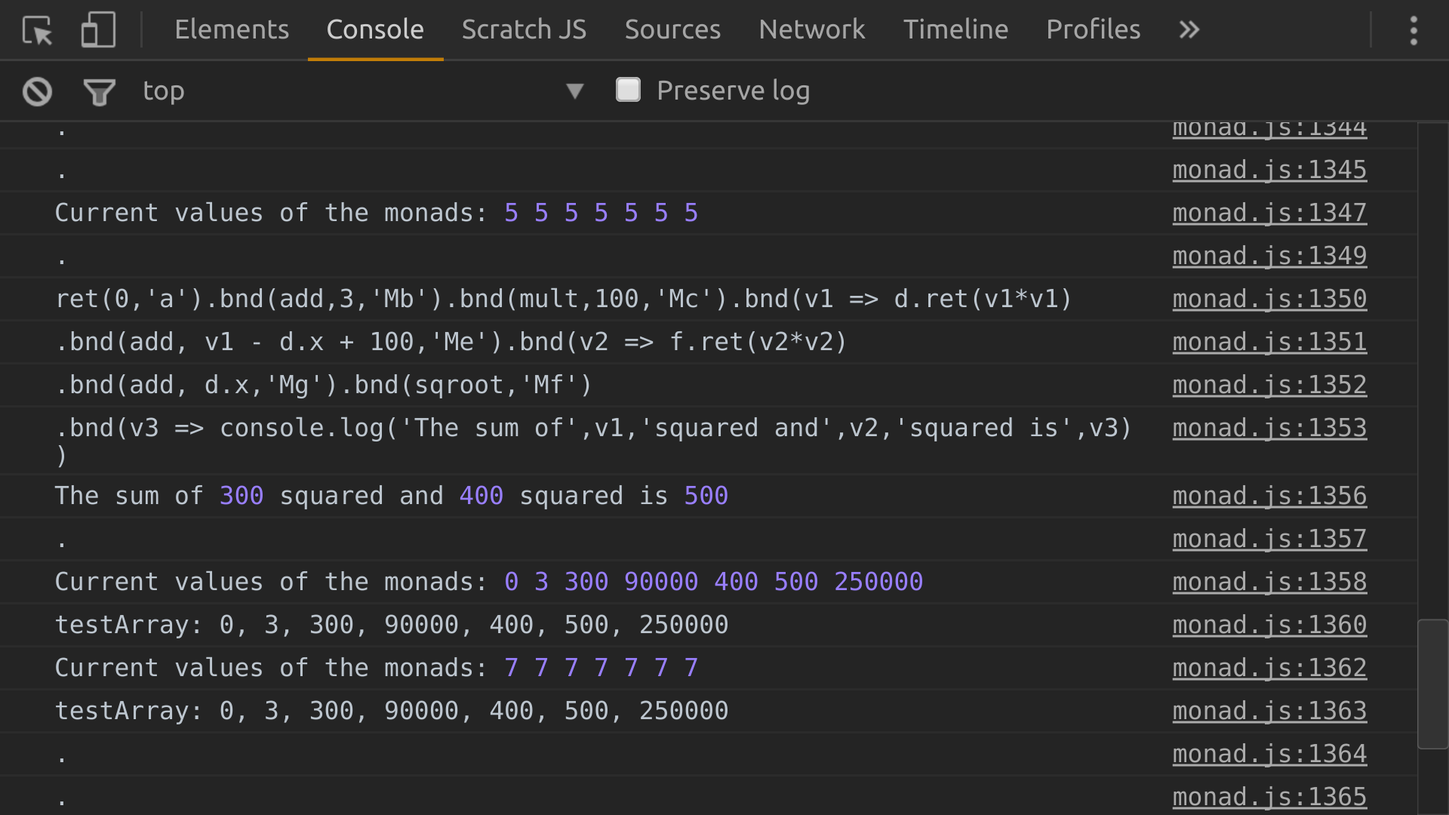
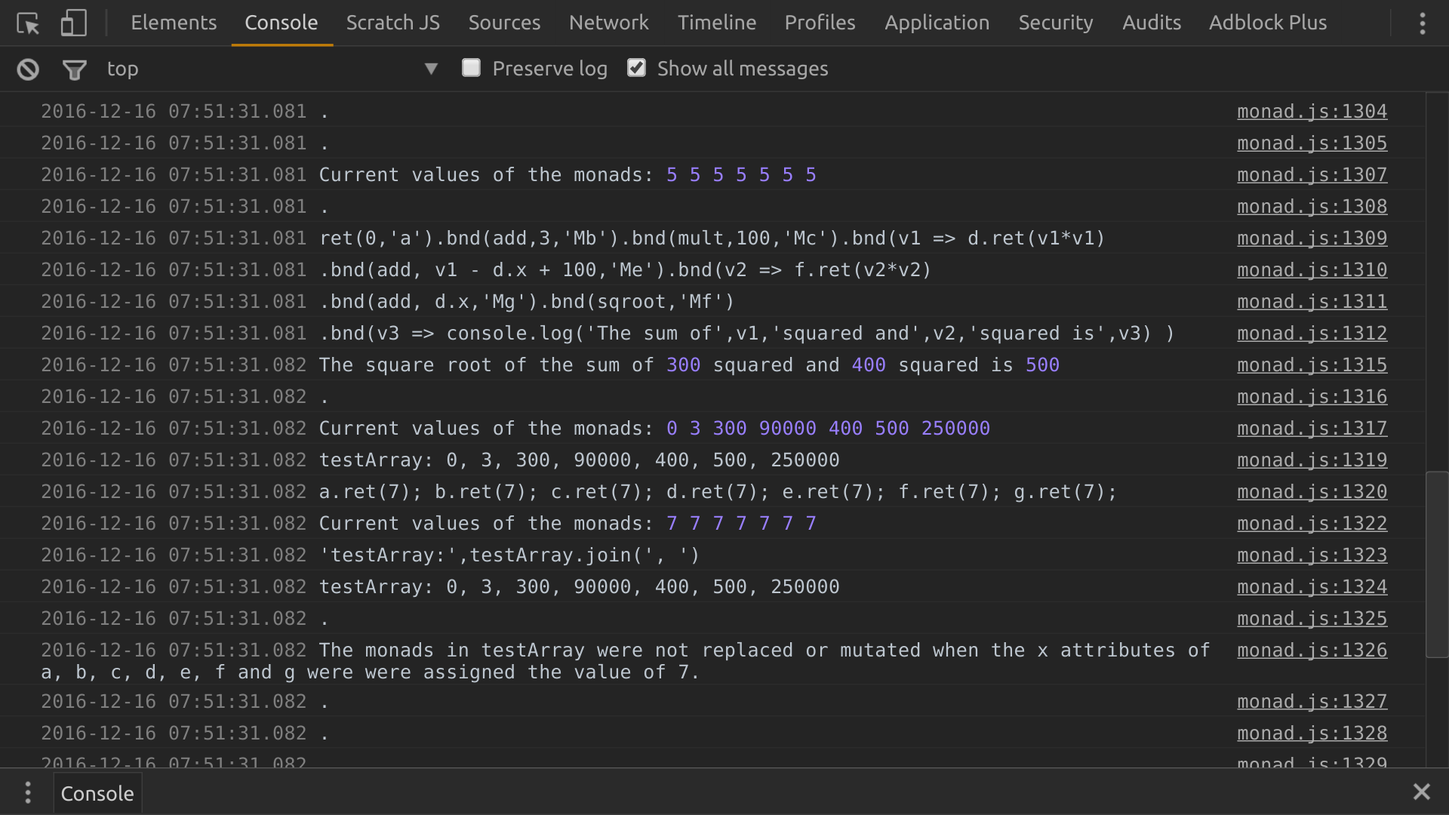
Edited some commentary

diff --git a/src/dist/bundle.js b/src/dist/bundle.js
@@ -6899,7 +6899,7 @@
 
 	    return {
 	        DOM: calcStream$.map(function () {
-	            return (0, _dom.h)('div.content', [(0, _dom.h)('div#rightPanel', { style: { display: '' + mMrightPanel.x } }, [(0, _dom.h)('span#tog', [(0, _dom.h)('button#game', { style: { fontSize: '16px', display: 'inline' } }, 'TOGGLE GAME'), (0, _dom.h)('span.tao', ' '), (0, _dom.h)('button#todoButton', { style: { fontSize: '16px', display: 'inline' } }, 'TOGGLE TODO_LIST'), (0, _dom.h)('br'), (0, _dom.h)('br'), (0, _dom.h)('button#chat2', { style: { fontSize: '16px', display: 'inline' } }, 'TOGGLE CHAT'), (0, _dom.h)('span.tao', ' '), (0, _dom.h)('button#caption', { style: { fontSize: '16px', display: 'inline' } }, 'TOGGLE CAPTION')]), (0, _dom.h)('br'), (0, _dom.h)('br'), (0, _dom.h)('br'), (0, _dom.h)('br'), (0, _dom.h)('br'), (0, _dom.h)('br'), (0, _dom.h)('br'), (0, _dom.h)('br'), (0, _dom.h)('br'), (0, _dom.h)('br'), (0, _dom.h)('br'), (0, _dom.h)('br'), (0, _dom.h)('br'), (0, _dom.h)('div#gameDiv', { style: { display: 'mMgameDiv.x' } }, [(0, _dom.h)('div.game', 'Name: ' + pMname.x), (0, _dom.h)('div.game', 'Group: ' + pMgroup.x), (0, _dom.h)('div.game', 'Currently online: Name score | goals'), (0, _dom.h)('div.game', '' + pMdata.x)]), (0, _dom.h)('br'), (0, _dom.h)('br'), (0, _dom.h)('div#todoDiv', { style: { display: mMtodoDiv.x } }, [(0, _dom.h)('div#taskList', taskL), (0, _dom.h)('span', 'Author, Responsible Person, Task: '), (0, _dom.h)('input.newTask')]), (0, _dom.h)('br'), (0, _dom.h)('span#alert', mMalert.x), (0, _dom.h)('br'), (0, _dom.h)('span#alert2'), (0, _dom.h)('br'), (0, _dom.h)('div#chatDiv', { style: { display: mMchatDiv.x } }, [(0, _dom.h)('div#messages', [(0, _dom.h)('span', 'Message: '), (0, _dom.h)('input.inputMessage'), (0, _dom.h)('div', messageMonad.s[3])])]), (0, _dom.h)('br'), (0, _dom.h)('br'), (0, _dom.h)('div', 'pMclicked.x: ' + pMclicked.x.join(', ')), (0, _dom.h)('div', 'pMop.x: ' + pMop.x), (0, _dom.h)('div', 'pMindex.x: ' + pMindex.x), (0, _dom.h)('div', 'travMonad.s.length: ' + travMonad.s.length), (0, _dom.h)('div', 'travMonad.s[pMindex.x][0]: ' + travMonad.s[pMindex.x][0]), (0, _dom.h)('div', 'travMonad.s[pMindex.x][1]: ' + travMonad.s[pMindex.x][1]), (0, _dom.h)('div', 'travMonad.s[pMindex.x][2]: ' + travMonad.s[pMindex.x][2]), (0, _dom.h)('div', 'travMonad.s[pMindex.x][3]: ' + travMonad.s[pMindex.x][3]), (0, _dom.h)('div', 'travMonad.s[pMindex.x][4]: ' + travMonad.s[pMindex.x][4])]), (0, _dom.h)('div#leftPanel', [(0, _dom.h)('br'), (0, _dom.h)('div#captionDiv', { style: { display: mMcaptionDiv.x } }, [(0, _dom.h)('h1', 'Motorcycle.js With JS-monads')]), (0, _dom.h)('span#italic', ' Not category theory monads. These monads are like the Haskell monads, They use patterns and conform to rules borrowed from category theory. See '), (0, _dom.h)('a', { props: { href: "http://math.andrej.com/2016/08/06/hask-is-not-a-category/", target: "_blank" } }, 'Hask is not a category.'), (0, _dom.h)('span', ' by Andrej Bauer and . '), (0, _dom.h)('a', { props: { href: '#discussion' } }, 'Discussion'), (0, _dom.h)('span', ' below. '), (0, _dom.h)('br'), (0, _dom.h)('br'), (0, _dom.h)('br'), (0, _dom.h)('span.tao1', ' The demonstrations include persisternt, shared todo lists; '), (0, _dom.h)('br'), (0, _dom.h)('span.tao1', ' An interactive simulated dice game with a traversable history (all group members see your score decrease or increase as you navegate backwards and forwards); '), (0, _dom.h)('br'), (0, _dom.h)('span.tao1', ' Chat rooms where members can compete in the simulated dice game, chat, and share a project todo list; '), (0, _dom.h)('br'), (0, _dom.h)('span.tao1', ' And other demonstrations of the power and convenience of JS-monads in a Motorcycle application.  '), (0, _dom.h)('br'), (0, _dom.h)('br'), (0, _dom.h)('span.tao', 'This is a '), (0, _dom.h)('a', { props: { href: "https://github.com/motorcyclejs", target: "_blank" } }, 'Motorcycle.js'), (0, _dom.h)('span', ' application. Motorcycle.js is '), (0, _dom.h)('a', { props: { href: "https://github.com/cyclejs/core", target: "_blank" } }, 'Cycle.js'), (0, _dom.h)('span', ' using '), (0, _dom.h)('a', { props: { href: "https://github.com/cujojs/most", target: "_blank" } }, 'Most'), (0, _dom.h)('span', ' , '), (0, _dom.h)('span', ' and '), (0, _dom.h)('a', { props: { href: "https://github.com/paldepind/snabbdom", target: "_blank" } }, 'Snabbdom'), (0, _dom.h)('span', ' instead of RxJS and virtual-dom.  The code for this repository is at '), (0, _dom.h)('a', { props: { href: "https://github.com/dschalk/JS-monads-stable", target: "_blank" } }, 'JS-monads-stable'), (0, _dom.h)('div#gameDiv2', { style: { display: mMgameDiv2.x } }, [(0, _dom.h)('br'), (0, _dom.h)('span', ' Here are the basic rules:'), (0, _dom.h)('p', 'RULES: If clicking two numbers and an operator (in any order) results in 20 or 18, the score increases by 1 or 3, respectively. If the score becomes 0 or is evenly divisible by 5, 5 points are added. A score of 25 results in one goal. That can only be achieved by arriving at a score of 20, which jumps the score to 25. Directly computing 25 results in a score of 30, and no goal. Each time RL is clicked, one point is deducted. Three goals wins the game. '), (0, _dom.h)('p.red4', mMgoals2.x), (0, _dom.h)('button#0.num', { style: { display: pMstyle.x[0] } }, pMnums.x[0]), (0, _dom.h)('button#1.num', { style: { display: pMstyle.x[1] } }, pMnums.x[1]), (0, _dom.h)('button#2.num', { style: { display: pMstyle.x[2] } }, pMnums.x[2]), (0, _dom.h)('button#3.num', { style: { display: pMstyle.x[3] } }, pMnums.x[3]), (0, _dom.h)('br'), (0, _dom.h)('button#4.op', 'add'), (0, _dom.h)('button#5.op', 'subtract'), (0, _dom.h)('button#5.op', 'mult'), (0, _dom.h)('button#5.op', 'div'), (0, _dom.h)('button#5.op', 'concat'), (0, _dom.h)('br'), (0, _dom.h)('div#dice', { style: { display: mMdice.x } }, [(0, _dom.h)('button.roll', 'ROLL'), (0, _dom.h)('br'), (0, _dom.h)('button#back', 'BACK'), (0, _dom.h)('button#forward', 'FORWARD'), (0, _dom.h)('div.tao', 'Selected numbers: ' + pMclicked.x.join(', ') + ' '), (0, _dom.h)('div.tao', 'Operator: ' + pMop.x + ' '), (0, _dom.h)('button#clear', 'Clear selected numbers (Possibly useful after clicking the BACK button) ')])]), (0, _dom.h)('div#log1', { style: { display: mMlog1.x } }, [(0, _dom.h)('p', 'IN ORDER TO SEE THE GAME, TODOLIST, AND CHAT DEMONSTRATIONS, YOU MUST ENTER SOMETHING .'), (0, _dom.h)('span', 'Name: '), (0, _dom.h)('input#login')]), (0, _dom.h)('p', mM6.x), (0, _dom.h)('div#log2', { style: { display: mMlog2.x } }, [(0, _dom.h)('span', 'Change group: '), (0, _dom.h)('input#group')]), (0, _dom.h)('p', mMsoloAlert.x), (0, _dom.h)('p', 'People who are in the same group, other than solo, share the same todo list, messages, and simulated dice game. In order to see any of these, you must establish an identity on the server by loggin g in. The websockets connection terminates if the first message the server receives does not come from the sign in form. You can enter any random numbers or letters you like. The only check is to make sure someone hasn\t already signed in with whatever you have selected. If you log in with a name that is already in use, a message will appear and this page will be re-loaded in the browser after a four-second pause. '), (0, _dom.h)('p', ' Data for the traversable game history accumulates until a player scores three goals and wins. The data array is then erased and the application is ready to start accumulating a new history. '), (0, _dom.h)('hr'), (0, _dom.h)('h1', 'The Monads'), (0, _dom.h)('h3', ' Monad '), _code2.default.monad, (0, _dom.h)('br'), (0, _dom.h)('span.tao#monad', ' Instances of Monad, MonadState, MonadItter, and MonadEr facilitate programming in a functional style. Additional constructors can be invented as special needs arise. In this presentation we see, among other things, Monad instances linking computations and assigning results to Monad instances, '), (0, _dom.h)('a', { props: { href: '#state' } }, 'MonadState'), (0, _dom.h)('span', ' instances memoizing computation results, '), (0, _dom.h)('a', { props: { href: '#itterLink' } }, 'MonadItter'), (0, _dom.h)('span', ' instances organizing nested callbacks into neat, easily maintainable blocks of code, and '), (0, _dom.h)('a', { props: { href: '#err' } }, 'MonadEr'), (0, _dom.h)('span', ' catching NaN and preventing crashes when undefined variables are encountered. '), (0, _dom.h)('p', ' Computations are easy to link if each result is returned in an instance of Monad. Here are a few examples of functions that return instances of Monad: '), _code2.default.e1, (0, _dom.h)('p', ' The "M" prefix provides constrol over the destination of computation results. In the following example, m1, m2, and m3 have already been declared. Here is a comparrison of the results obtained when the "M" prefix is used and when it is omitted: '), (0, _dom.h)('pre.red9', '    m1.ret(7).bnd(m2.ret).bnd(m3.ret)  // All three monads get the value 7.\n    m1.ret(0).bnd(add,3,\'m2\').bnd(cube,\'m3\')  // \'m1\', \'m2\', and \'m3\' are ignored'), (0, _dom.h)('pre', '    Result: m1.x === 27\n            m2.x === 7\n            m3.x === 7  '), (0, _dom.h)('pre.red9', '    m1.ret(0).bnd(add,3,\'Mm2\').bnd(cube,\'Mm3\')   '), (0, _dom.h)('pre', '    Result: m1.x === 0\n            m2.x === 3\n            m3.x === 27  '), (0, _dom.h)('p', ' If the prefix "M" is absent, bnd() ignores the string argument. But when the "M" prefix is present, m1 retains its initial value, m2 retains the value it gets from from adding m\'s value (which is 0) to 3, and m3.x is the result. Both forms could be useful. '), (0, _dom.h)('p', ' The following example shows lambda expressions sending variables v1 and v2 through a sequence of computations and v3 sending the final result to the string that is logged. It also shows monads a, b, c, d, e, f, and g being updated and preserved in an array that is not affected by further updates. That is because calling the ret() method does not mutate a monad, it creates a fresh instance with the same name. Here is the example, shown in a screen shot of the Chrome console log:. '), (0, _dom.h)('br'), (0, _dom.h)('br'), (0, _dom.h)('img.image', { props: { src: "demo_000.png" } }), (0, _dom.h)('h3', ' The Monad Laws '), (0, _dom.h)('p', ' In the following discussion, "x === y" signifies that the expression x === y returns true. Let J be the collection of all Javascript values, including functions, instances of Monad, etc, and let F be the collection of all functions mapping values in J to instances of Monad with references (names) matching their ids; that is, with window[id] === m.id for some id which is a valid es2015 variable name. The collection of all such instances of Monad along and all of the functions in F is called "M". For any instances of Monad m, m1, and m2 in M and any functions f and g in F, the following relationships follow easily from the definition of Monad: '), (0, _dom.h)('div', 'Left Identity '), (0, _dom.h)('pre.turk', '    m.ret(v, ...args).bnd(f, ...args).x === f(v, ...args).x \n    ret(v, ...args).bnd(f, ...args).x === f(v, ...args).x \n    Examples: m.ret(3).bnd(cube).x === cube(3).x  Tested and verified  \n    ret(3).bnd(cube).x === cube(3).x     Tested and verified\n    Haskell monad law: (return x) >>= f \u2261 f x  '), (0, _dom.h)('div#discussion', ' Right Identity  '), (0, _dom.h)('pre.turk', '    m.bnd(m.ret) === m      Tested and verified \n    m.bnd(m.ret) === m   Tested and verified\n    m.bnd(ret) === m  Tested and verified\n    Haskell monad law: m >>= return \u2261 m '), (0, _dom.h)('div', ' Commutivity  '), (0, _dom.h)('pre.turk', '    m.bnd(f1, ...args).bnd(f2, ...args).x === m.bnd(v => f1(v, ...args).bnd(f2, ...args)).x \n    Example: m.ret(0).bnd(add, 3).bnd(cube).x === \n    m.ret(0).bnd(v => add(v,3).bnd(cube)).x  Tested amd verified\n    Haskell monad law: (m >>= f) >>= g \u2261 m >>= ( \\x -> (f x >>= g) ) '), (0, _dom.h)('a', { props: { href: '#top' } }, 'Back To The Top'), (0, _dom.h)('h3', ' Disussion '), (0, _dom.h)('span.tao', ' The Haskell statement '), (0, _dom.h)('span.turk6', 'f \u2261 g'), (0, _dom.h)('span', ' means that f x == g x for all Haskell values x of the appropriate type. That is the test applied to Javascript expressions in "Monad Laws" section (above). Neither the === nor the === operator would provide useful information about the behavior of instances of Monad, which are objects. Those operators test objects for location in memory. If the left and right sides of predicates create new instances of m, then the left side m and the right side m wind up in different locations in memory. So we expect m.ret(3) === m.ret(3) to return false, and it does. The question we want answered is the question \u2261 answers in Haskell: Can the left and right sides be substituted for one another and still yield the same results.'), (0, _dom.h)('br'), (0, _dom.h)('br'), (0, _dom.h)('span.tao', ' The Haskell programming language borrowed the term "monad" from the branch of mathematics known as category theory. This was apropriate because Haskell monads, along with the function return and the operator >>=, behave quite a bit like category theory monads, and the inspiration for them came out of category theory. For Haskell monads to be category theory monads, they would need to reside in a category-theory category. They don\'t, although the Haskell mystique tends to give newcommers to the language the impression that they do. See '), (0, _dom.h)('a', { props: { href: "http://math.andrej.com/2016/08/06/hask-is-not-a-category/", target: "_blank" } }, 'Hask is not a category.'), (0, _dom.h)('br'), (0, _dom.h)('p', ' Research into ways of defining a Haskell category appears to be ongoing. It involves tinkering with special constraints, omitted features, and definitions of morphisms that are not Haskell functions. When a definition of the category is established, Haskell monads are then be shown to be, in some contrived context, category-theory monads. Devising such schemes are instructive academic excercises, but I don\'t think they can provide anything useful to programmers working on applications for industry, commerce, and the Internet. '), (0, _dom.h)('p', ' However, imitating definitions and patterns found in category theory, as Haskell does in defining the functor, monoid, and monad type classes, was a stroke of genius that vastly enriched the Haskell programming language and brought it into the mainstream as a viable alternative to java, c++, etc.  This website runs efficiently on a Haskell websockets server. Category theory patterns are less needed, but neverthless useful, in Javascript. Code that adheres to them tends to be robust and predictable. '),
+	            return (0, _dom.h)('div.content', [(0, _dom.h)('div#rightPanel', { style: { display: '' + mMrightPanel.x } }, [(0, _dom.h)('span#tog', [(0, _dom.h)('button#game', { style: { fontSize: '16px', display: 'inline' } }, 'TOGGLE GAME'), (0, _dom.h)('span.tao', ' '), (0, _dom.h)('button#todoButton', { style: { fontSize: '16px', display: 'inline' } }, 'TOGGLE TODO_LIST'), (0, _dom.h)('br'), (0, _dom.h)('br'), (0, _dom.h)('button#chat2', { style: { fontSize: '16px', display: 'inline' } }, 'TOGGLE CHAT'), (0, _dom.h)('span.tao', ' '), (0, _dom.h)('button#caption', { style: { fontSize: '16px', display: 'inline' } }, 'TOGGLE CAPTION')]), (0, _dom.h)('br'), (0, _dom.h)('br'), (0, _dom.h)('br'), (0, _dom.h)('br'), (0, _dom.h)('br'), (0, _dom.h)('br'), (0, _dom.h)('br'), (0, _dom.h)('br'), (0, _dom.h)('br'), (0, _dom.h)('br'), (0, _dom.h)('br'), (0, _dom.h)('br'), (0, _dom.h)('br'), (0, _dom.h)('div#gameDiv', { style: { display: 'mMgameDiv.x' } }, [(0, _dom.h)('div.game', 'Name: ' + pMname.x), (0, _dom.h)('div.game', 'Group: ' + pMgroup.x), (0, _dom.h)('div.game', 'Currently online: Name score | goals'), (0, _dom.h)('div.game', '' + pMdata.x)]), (0, _dom.h)('br'), (0, _dom.h)('br'), (0, _dom.h)('div#todoDiv', { style: { display: mMtodoDiv.x } }, [(0, _dom.h)('div#taskList', taskL), (0, _dom.h)('span', 'Author, Responsible Person, Task: '), (0, _dom.h)('input.newTask')]), (0, _dom.h)('br'), (0, _dom.h)('span#alert', mMalert.x), (0, _dom.h)('br'), (0, _dom.h)('span#alert2'), (0, _dom.h)('br'), (0, _dom.h)('div#chatDiv', { style: { display: mMchatDiv.x } }, [(0, _dom.h)('div#messages', [(0, _dom.h)('span', 'Message: '), (0, _dom.h)('input.inputMessage'), (0, _dom.h)('div', messageMonad.s[3])])]), (0, _dom.h)('br'), (0, _dom.h)('br'), (0, _dom.h)('div', 'pMclicked.x: ' + pMclicked.x.join(', ')), (0, _dom.h)('div', 'pMop.x: ' + pMop.x), (0, _dom.h)('div', 'pMindex.x: ' + pMindex.x), (0, _dom.h)('div', 'travMonad.s.length: ' + travMonad.s.length), (0, _dom.h)('div', 'travMonad.s[pMindex.x][0]: ' + travMonad.s[pMindex.x][0]), (0, _dom.h)('div', 'travMonad.s[pMindex.x][1]: ' + travMonad.s[pMindex.x][1]), (0, _dom.h)('div', 'travMonad.s[pMindex.x][2]: ' + travMonad.s[pMindex.x][2]), (0, _dom.h)('div', 'travMonad.s[pMindex.x][3]: ' + travMonad.s[pMindex.x][3]), (0, _dom.h)('div', 'travMonad.s[pMindex.x][4]: ' + travMonad.s[pMindex.x][4])]), (0, _dom.h)('div#leftPanel', [(0, _dom.h)('br'), (0, _dom.h)('div#captionDiv', { style: { display: mMcaptionDiv.x } }, [(0, _dom.h)('h1', 'Motorcycle.js With JS-monads')]), (0, _dom.h)('span#italic', ' Not category theory monads. These monads are like the Haskell monads, They use patterns and conform to rules borrowed from category theory. See '), (0, _dom.h)('a', { props: { href: "http://math.andrej.com/2016/08/06/hask-is-not-a-category/", target: "_blank" } }, 'Hask is not a category.'), (0, _dom.h)('span', ' by Andrej Bauer and . '), (0, _dom.h)('a', { props: { href: '#discussion' } }, 'Discussion'), (0, _dom.h)('span', ' below. '), (0, _dom.h)('br'), (0, _dom.h)('br'), (0, _dom.h)('br'), (0, _dom.h)('span.tao1', ' The demonstrations include persisternt, shared todo lists; '), (0, _dom.h)('br'), (0, _dom.h)('span.tao1', ' An interactive simulated dice game with a traversable history (all group members see your score decrease or increase as you navegate backwards and forwards); '), (0, _dom.h)('br'), (0, _dom.h)('span.tao1', ' Chat rooms where members can compete in the simulated dice game, chat, and share a project todo list; '), (0, _dom.h)('br'), (0, _dom.h)('span.tao1', ' And other demonstrations of the power and convenience of JS-monads in a Motorcycle application.  '), (0, _dom.h)('br'), (0, _dom.h)('br'), (0, _dom.h)('span.tao', 'This is a '), (0, _dom.h)('a', { props: { href: "https://github.com/motorcyclejs", target: "_blank" } }, 'Motorcycle.js'), (0, _dom.h)('span', ' application. Motorcycle.js is '), (0, _dom.h)('a', { props: { href: "https://github.com/cyclejs/core", target: "_blank" } }, 'Cycle.js'), (0, _dom.h)('span', ' using '), (0, _dom.h)('a', { props: { href: "https://github.com/cujojs/most", target: "_blank" } }, 'Most'), (0, _dom.h)('span', ' , '), (0, _dom.h)('span', ' and '), (0, _dom.h)('a', { props: { href: "https://github.com/paldepind/snabbdom", target: "_blank" } }, 'Snabbdom'), (0, _dom.h)('span', ' instead of RxJS and virtual-dom.  The code for this repository is at '), (0, _dom.h)('a', { props: { href: "https://github.com/dschalk/JS-monads-stable", target: "_blank" } }, 'JS-monads-stable'), (0, _dom.h)('div#gameDiv2', { style: { display: mMgameDiv2.x } }, [(0, _dom.h)('br'), (0, _dom.h)('span', ' Here are the basic rules:'), (0, _dom.h)('p', 'RULES: If clicking two numbers and an operator (in any order) results in 20 or 18, the score increases by 1 or 3, respectively. If the score becomes 0 or is evenly divisible by 5, 5 points are added. A score of 25 results in one goal. That can only be achieved by arriving at a score of 20, which jumps the score to 25. Directly computing 25 results in a score of 30, and no goal. Each time RL is clicked, one point is deducted. Three goals wins the game. '), (0, _dom.h)('p.red4', mMgoals2.x), (0, _dom.h)('button#0.num', { style: { display: pMstyle.x[0] } }, pMnums.x[0]), (0, _dom.h)('button#1.num', { style: { display: pMstyle.x[1] } }, pMnums.x[1]), (0, _dom.h)('button#2.num', { style: { display: pMstyle.x[2] } }, pMnums.x[2]), (0, _dom.h)('button#3.num', { style: { display: pMstyle.x[3] } }, pMnums.x[3]), (0, _dom.h)('br'), (0, _dom.h)('button#4.op', 'add'), (0, _dom.h)('button#5.op', 'subtract'), (0, _dom.h)('button#5.op', 'mult'), (0, _dom.h)('button#5.op', 'div'), (0, _dom.h)('button#5.op', 'concat'), (0, _dom.h)('br'), (0, _dom.h)('div#dice', { style: { display: mMdice.x } }, [(0, _dom.h)('button.roll', 'ROLL'), (0, _dom.h)('br'), (0, _dom.h)('button#back', 'BACK'), (0, _dom.h)('button#forward', 'FORWARD'), (0, _dom.h)('div.tao', 'Selected numbers: ' + pMclicked.x.join(', ') + ' '), (0, _dom.h)('div.tao', 'Operator: ' + pMop.x + ' '), (0, _dom.h)('button#clear', 'Clear selected numbers (Possibly useful after clicking the BACK button) ')])]), (0, _dom.h)('div#log1', { style: { display: mMlog1.x } }, [(0, _dom.h)('p', 'IN ORDER TO SEE THE GAME, TODOLIST, AND CHAT DEMONSTRATIONS, YOU MUST ENTER SOMETHING .'), (0, _dom.h)('span', 'Name: '), (0, _dom.h)('input#login')]), (0, _dom.h)('p', mM6.x), (0, _dom.h)('div#log2', { style: { display: mMlog2.x } }, [(0, _dom.h)('span', 'Change group: '), (0, _dom.h)('input#group')]), (0, _dom.h)('p', mMsoloAlert.x), (0, _dom.h)('p', 'People who are in the same group, other than solo, share the same todo list, messages, and simulated dice game. In order to see any of these, you must establish an identity on the server by loggin g in. The websockets connection terminates if the first message the server receives does not come from the sign in form. You can enter any random numbers or letters you like. The only check is to make sure someone hasn\t already signed in with whatever you have selected. If you log in with a name that is already in use, a message will appear and this page will be re-loaded in the browser after a four-second pause. '), (0, _dom.h)('p', ' Data for the traversable game history accumulates until a player scores three goals and wins. The data array is then erased and the application is ready to start accumulating a new history. '), (0, _dom.h)('hr'), (0, _dom.h)('h1', 'The Monads'), (0, _dom.h)('h3', ' Monad '), _code2.default.monad, (0, _dom.h)('br'), (0, _dom.h)('span.tao#monad', ' Instances of Monad, MonadState, MonadItter, and MonadEr facilitate programming in a functional style. Additional constructors can be invented as special needs arise. In this presentation we see, among other things, Monad instances linking computations and assigning results to Monad instances, '), (0, _dom.h)('a', { props: { href: '#state' } }, 'MonadState'), (0, _dom.h)('span', ' instances memoizing computation results, '), (0, _dom.h)('a', { props: { href: '#itterLink' } }, 'MonadItter'), (0, _dom.h)('span', ' instances organizing nested callbacks into neat, easily maintainable blocks of code, and '), (0, _dom.h)('a', { props: { href: '#err' } }, 'MonadEr'), (0, _dom.h)('span', ' catching NaN and preventing crashes when undefined variables are encountered. '), (0, _dom.h)('p', ' Computations are easy to link if each result is returned in an instance of Monad. Here are a few examples of functions that return instances of Monad: '), _code2.default.e1, (0, _dom.h)('p', ' The "M" prefix provides constrol over the destination of computation results. In the following example, m1, m2, and m3 have already been declared. Here is a comparrison of the results obtained when the "M" prefix is used and when it is omitted: '), (0, _dom.h)('pre.red9', '    m1.ret(7).bnd(m2.ret).bnd(m3.ret)  // All three monads get the value 7.\n    m1.ret(0).bnd(add,3,\'m2\').bnd(cube,\'m3\')  // \'m1\', \'m2\', and \'m3\' are ignored'), (0, _dom.h)('pre', '    Result: m1.x === 27\n            m2.x === 7\n            m3.x === 7  '), (0, _dom.h)('pre.red9', '    m1.ret(0).bnd(add,3,\'Mm2\').bnd(cube,\'Mm3\')   '), (0, _dom.h)('pre', '    Result: m1.x === 0\n            m2.x === 3\n            m3.x === 27  '), (0, _dom.h)('p', ' If the prefix "M" is absent, bnd() ignores the string argument. But when the "M" prefix is present, m1 retains its initial value, m2 retains the value it gets from from adding m\'s value (which is 0) to 3, and m3.x is the result. Both forms could be useful. '), (0, _dom.h)('p', ' The following example shows lambda expressions sending variables v1 and v2 through a sequence of computations and v3 sending the final result to the string that is logged. It also shows monads a, b, c, d, e, f, and g being updated and preserved in an array that is not affected by further updates. That is because calling the ret() method does not mutate a monad; it creates a fresh instance with the same name. Here is the example, shown in a screen shot of the Chrome console log:. '), (0, _dom.h)('br'), (0, _dom.h)('br'), (0, _dom.h)('img.image', { props: { src: "demo_000.png" } }), (0, _dom.h)('h3', ' The Monad Laws '), (0, _dom.h)('p', ' In the following discussion, "x === y" signifies that the expression x === y returns true. Let J be the collection of all Javascript values, including functions, instances of Monad, etc, and let F be the collection of all functions mapping values in J to instances of Monad with references (names) matching their ids; that is, with window[id] === m.id for some id which is a valid es2015 variable name. The collection of all such instances of Monad along and all of the functions in F is called "M". For any instances of Monad m, m1, and m2 in M and any functions f and g in F, the following relationships follow easily from the definition of Monad: '), (0, _dom.h)('div', 'Left Identity '), (0, _dom.h)('pre.turk', '    m.ret(v, ...args).bnd(f, ...args).x === f(v, ...args).x \n    ret(v, ...args).bnd(f, ...args).x === f(v, ...args).x \n    Examples: m.ret(3).bnd(cube).x === cube(3).x  Tested and verified  \n    ret(3).bnd(cube).x === cube(3).x     Tested and verified\n    Haskell monad law: (return x) >>= f \u2261 f x  '), (0, _dom.h)('div#discussion', ' Right Identity  '), (0, _dom.h)('pre.turk', '    m.bnd(m.ret) === m      Tested and verified \n    m.bnd(m.ret) === m   Tested and verified\n    m.bnd(ret) === m  Tested and verified\n    Haskell monad law: m >>= return \u2261 m '), (0, _dom.h)('div', ' Commutivity  '), (0, _dom.h)('pre.turk', '    m.bnd(f1, ...args).bnd(f2, ...args).x === m.bnd(v => f1(v, ...args).bnd(f2, ...args)).x \n    Example: m.ret(0).bnd(add, 3).bnd(cube).x === \n    m.ret(0).bnd(v => add(v,3).bnd(cube)).x  Tested amd verified\n    Haskell monad law: (m >>= f) >>= g \u2261 m >>= ( \\x -> (f x >>= g) ) '), (0, _dom.h)('a', { props: { href: '#top' } }, 'Back To The Top'), (0, _dom.h)('h3', ' Disussion '), (0, _dom.h)('span.tao', ' The Haskell statement '), (0, _dom.h)('span.turk6', 'f \u2261 g'), (0, _dom.h)('span', ' means that f x == g x for all Haskell values x of the appropriate type. That is the test applied to Javascript expressions in "Monad Laws" section (above). Neither the === nor the === operator would provide useful information about the behavior of instances of Monad, which are objects. Those operators test objects for location in memory. If the left and right sides of predicates create new instances of m, then the left side m and the right side m wind up in different locations in memory. So we expect m.ret(3) === m.ret(3) to return false, and it does. The question we want answered is the question \u2261 answers in Haskell: Can the left and right sides be substituted for one another and still yield the same results.'), (0, _dom.h)('br'), (0, _dom.h)('br'), (0, _dom.h)('span.tao', ' The Haskell programming language borrowed the term "monad" from the branch of mathematics known as category theory. This was apropriate because Haskell monads, along with the function return and the operator >>=, behave quite a bit like category theory monads, and the inspiration for them came out of category theory. For Haskell monads to be category theory monads, they would need to reside in a category-theory category. They don\'t, although the Haskell mystique tends to give newcommers to the language the impression that they do. See '), (0, _dom.h)('a', { props: { href: "http://math.andrej.com/2016/08/06/hask-is-not-a-category/", target: "_blank" } }, 'Hask is not a category.'), (0, _dom.h)('br'), (0, _dom.h)('p', ' Research into ways of defining a Haskell category appears to be ongoing. It involves tinkering with special constraints, omitted features, and definitions of morphisms that are not Haskell functions. When a definition of the category is established, Haskell monads are then be shown to be, in some contrived context, category-theory monads. Devising such schemes are instructive academic excercises, but I don\'t think they can provide anything useful to programmers working on applications for industry, commerce, and the Internet. '), (0, _dom.h)('p', ' However, imitating definitions and patterns found in category theory, as Haskell does in defining the functor, monoid, and monad type classes, was a stroke of genius that vastly enriched the Haskell programming language and brought it into the mainstream as a viable alternative to java, c++, etc.  This website runs efficiently on a Haskell websockets server. Category theory patterns are less needed, but neverthless useful, in Javascript. Code that adheres to them tends to be robust and predictable. '),
 
 	            // **************************************************************************** END MONAD       START ERROR   
 	            //

diff --git a/src/main.js b/src/main.js
@@ -963,7 +963,7 @@ h('pre', `    Result: m1.x === 0
             m2.x === 3
             m3.x === 27  ` ),
 h('p', ' If the prefix "M" is absent, bnd() ignores the string argument. But when the "M" prefix is present, m1 retains its initial value, m2 retains the value it gets from from adding m\'s value (which is 0) to 3, and m3.x is the result. Both forms could be useful. ' ),
-h('p', ' The following example shows lambda expressions sending variables v1 and v2 through a sequence of computations and v3 sending the final result to the string that is logged. It also shows monads a, b, c, d, e, f, and g being updated and preserved in an array that is not affected by further updates. That is because calling the ret() method does not mutate a monad, it creates a fresh instance with the same name. Here is the example, shown in a screen shot of the Chrome console log:. ' ),  
+h('p', ' The following example shows lambda expressions sending variables v1 and v2 through a sequence of computations and v3 sending the final result to the string that is logged. It also shows monads a, b, c, d, e, f, and g being updated and preserved in an array that is not affected by further updates. That is because calling the ret() method does not mutate a monad; it creates a fresh instance with the same name. Here is the example, shown in a screen shot of the Chrome console log:. ' ),  
 h('br' ),
 h('br' ),
 h('img.image', {props: {src: "demo_000.png"}}  ),   

diff --git a/src/dist/monad.js b/src/dist/monad.js
@@ -1312,7 +1312,7 @@ console.log(".bnd(add, d.x,'Mg').bnd(sqroot,'Mf')");
 console.log(".bnd(v3 => console.log('The sum of',v1,'squared and',v2,'squared is',v3) )" );
 ret(0,'a').bnd(add,3,'Mb').bnd(mult,100,'Mc').bnd(v1 => d.ret(v1*v1)
 .bnd(add, v1 - d.x + 100,'Me').bnd(v2 => f.ret(v2*v2).bnd(add, d.x,'Mg').bnd(sqroot,'Mf')
-.bnd(v3 => console.log('The sum of',v1,'squared and',v2,'squared is',v3))));
+.bnd(v3 => console.log('The square root of the sum of',v1,'squared and',v2,'squared is',v3))));
 console.log('.');
 console.log('Current values of the monads:', a.x,b.x,c.x,d.x,e.x,f.x,g.x);
 var testArray = [a.x,b.x,c.x,d.x,e.x,f.x,g.x];
@@ -1323,7 +1323,10 @@ console.log('Current values of the monads:',a.x,b.x,c.x,d.x,e.x,f.x,g.x);
 console.log("'testArray:',testArray.join(', ')");
 console.log('testArray:',testArray.join(', '));
 console.log('.');
-console.log('The monads in testArray were not replaced or mutated.');
+console.log('The monads in testArray were not replaced or mutated when the x attributes of a, b, c, d, e, f and g were were assigned the value of 7.');
+console.log('.');
+console.log('.');
+console.log('.');
 console.log('When monads call their ret() methods, new instances of Monad are created.' );
 console.log('.');
 console.log('.');

diff --git a/README.md b/README.md
@@ -119,9 +119,10 @@ However, imitating definitions and patterns found in category theory, as Haskell
 
 ## Asynchronous Processes
 
-### Conveniently handled in the Motorcycle / Cycle framework.
+An online demonstration involves a computation that can take a while to complete. It memoizes computed prime numbers and does not block the browser engine's primary execuation thread. The number you enter is a cap on the size of the largest number in the Fibonacci sequence which is produced. If you enter 3 and then, one at a time, 0's until you reach three billion (3000000000), you should see the display updating quickly until the final 0. That will get you the prime number 2971215073. If you add another 0, you can expect a descernable lag time. Removing the final 0 and then putting it back demonstrates the effectiveness of memoization.
 
-An online demonstration involves a computation that can take a while to complete. I want the process to be non-blocking and I want the code to provide an interface to code that is linked to it. Promises are an option, but see if you think the following Motorcycle solution is better. 
+
+According to the The On-Line Encyclopedia of Integer Sequences these are the first eleven proven prime Fibonacci numbers: 2, 3, 5, 13, 89, 233, 1597, 28657, 514229, 433494437, 2971215073, and 99194853094755497. The eleventh number, 2971215073, is as far as you can go on an ordinary desktop computer. 
 
 The code runs in two threads, a main thread and a web worker thread. Here is a look at what happens in the main thread. A driver, using create and add from the most library, is defined as follows:
 
@@ -131,7 +132,7 @@ The code runs in two threads, a main thread and a web worker thread. Here is a l
   }   
 ```    
 The driver is merged into the stream that feeds the virtual DOM, and it is also an element of an the resources object (named WWB) which supports the user interface. I still marvel at the sublime elegance of the cycle provided by the Motorcycle and Cycle libraries. Having the driver receive messages from the worker assures timely browser updates. Here is the code that runs in the main thread:
-
+```js
   const fibKeyPress5$ = sources.DOM
     .select('input#fib92').events('keyup');
 
@@ -139,10 +140,27 @@ The driver is merged into the stream that feeds the virtual DOM, and it is also 
     workerB.postMessage(e.target.value)
   });
 
-  const workerB$ = sources.WWB.map(m => mMres.ret(m.data) 
+  const workerB$ = sources.WWB.map(m => {
+    console.log('In workerB$ stream in the main thread. m is ', m );
+    mMres.ret(m.data)
     .bnd(v => mM36.ret('Asynchronous addendum. The largest computed ' +
-    'prime Fibonacci number is ' + v[2].split(',')[v[2].split(',').length - 1]), 'MmM36')
-  );  
+      'prime Fibonacci number is ' + v[2].split(',')[v[2].split(',').length - 1]), 'MmM36')
+    primesMonad.s = JSON.parse(JSON.stringify(primesMonad.s));
+    primesMonad.a = JSON.parse(JSON.stringify(primesMonad.a));
+    primesMonad.s = m.data[3];
+    primesMonad.a = m.data[3][3];
+  });
+```
+As expected, the addendum doesn't try to run before the computation completes. Here is the definition of workerB.js. MonadState and fpTransformer are discussed in the MonadState and MonadStart Transformers section below.
+```js
+    onmessage = function(m) {
+    var ar = m.data;
+    importScripts('script2.js');
+  
+    var result = fibsMonad.run([1, 2 , ar[0], [0,1]])
+    .bnd(fpTransformer, ar[1])
+    postMessage(result);    
+```
 Later, we will see how instances of MonadState and MonadTransformer perform the computations in the workerB thread.
 
   ## MonadArchive
